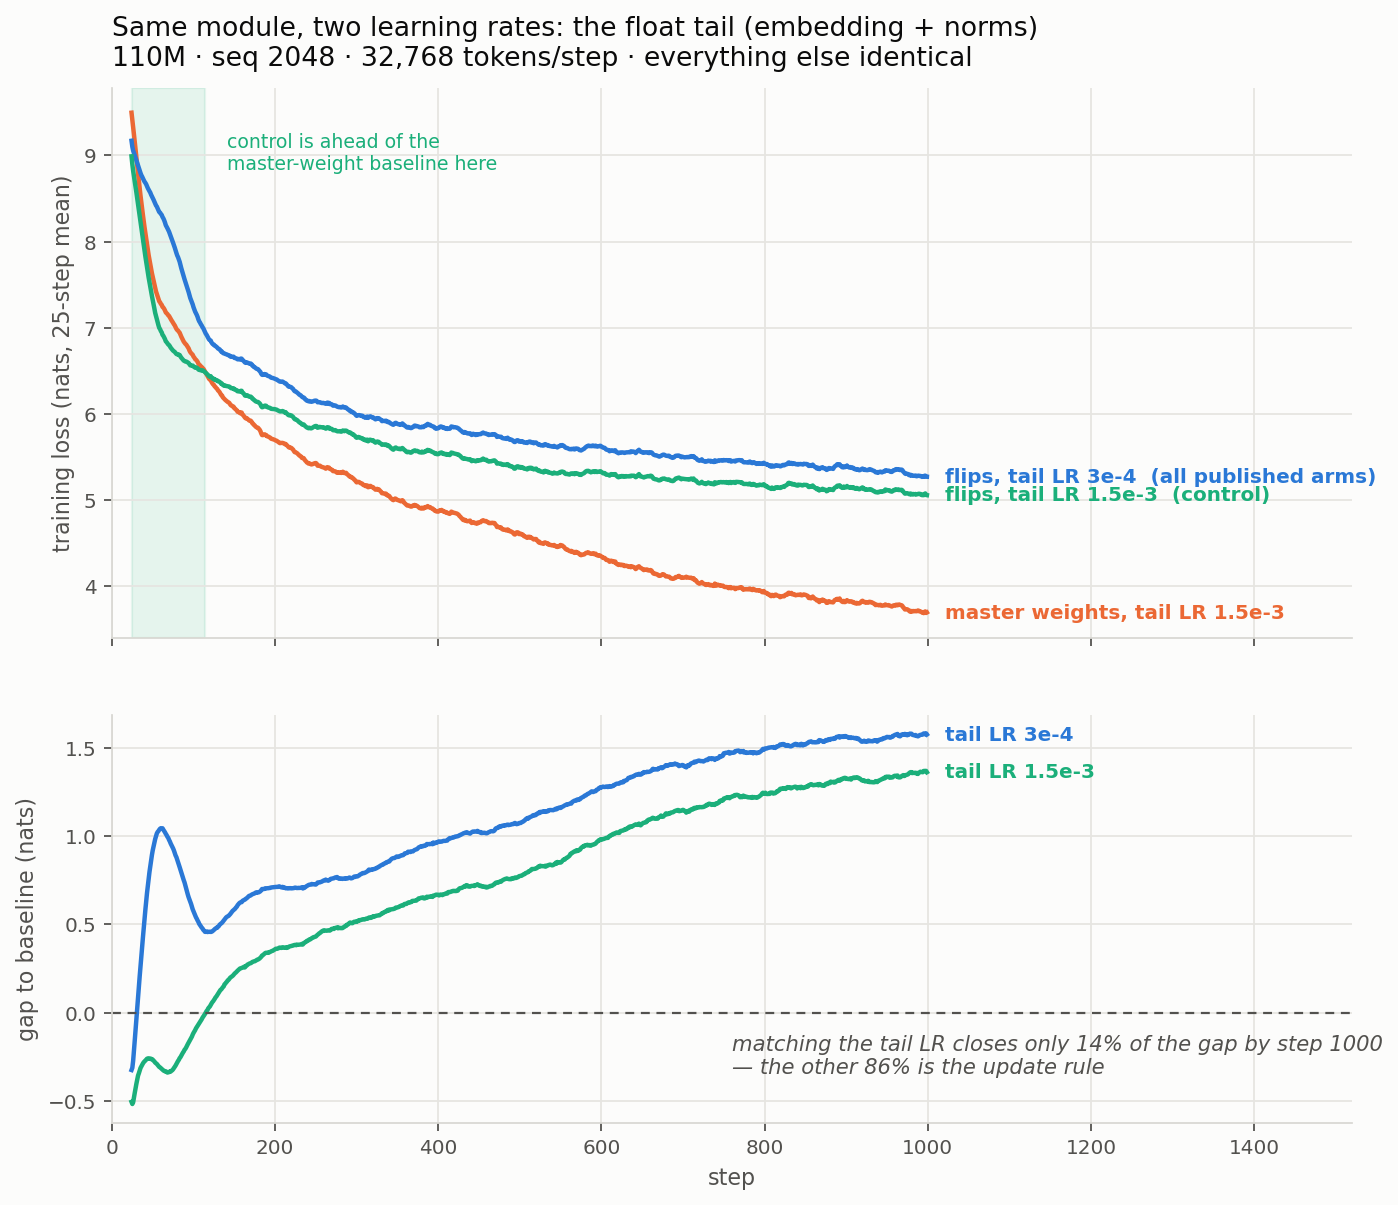
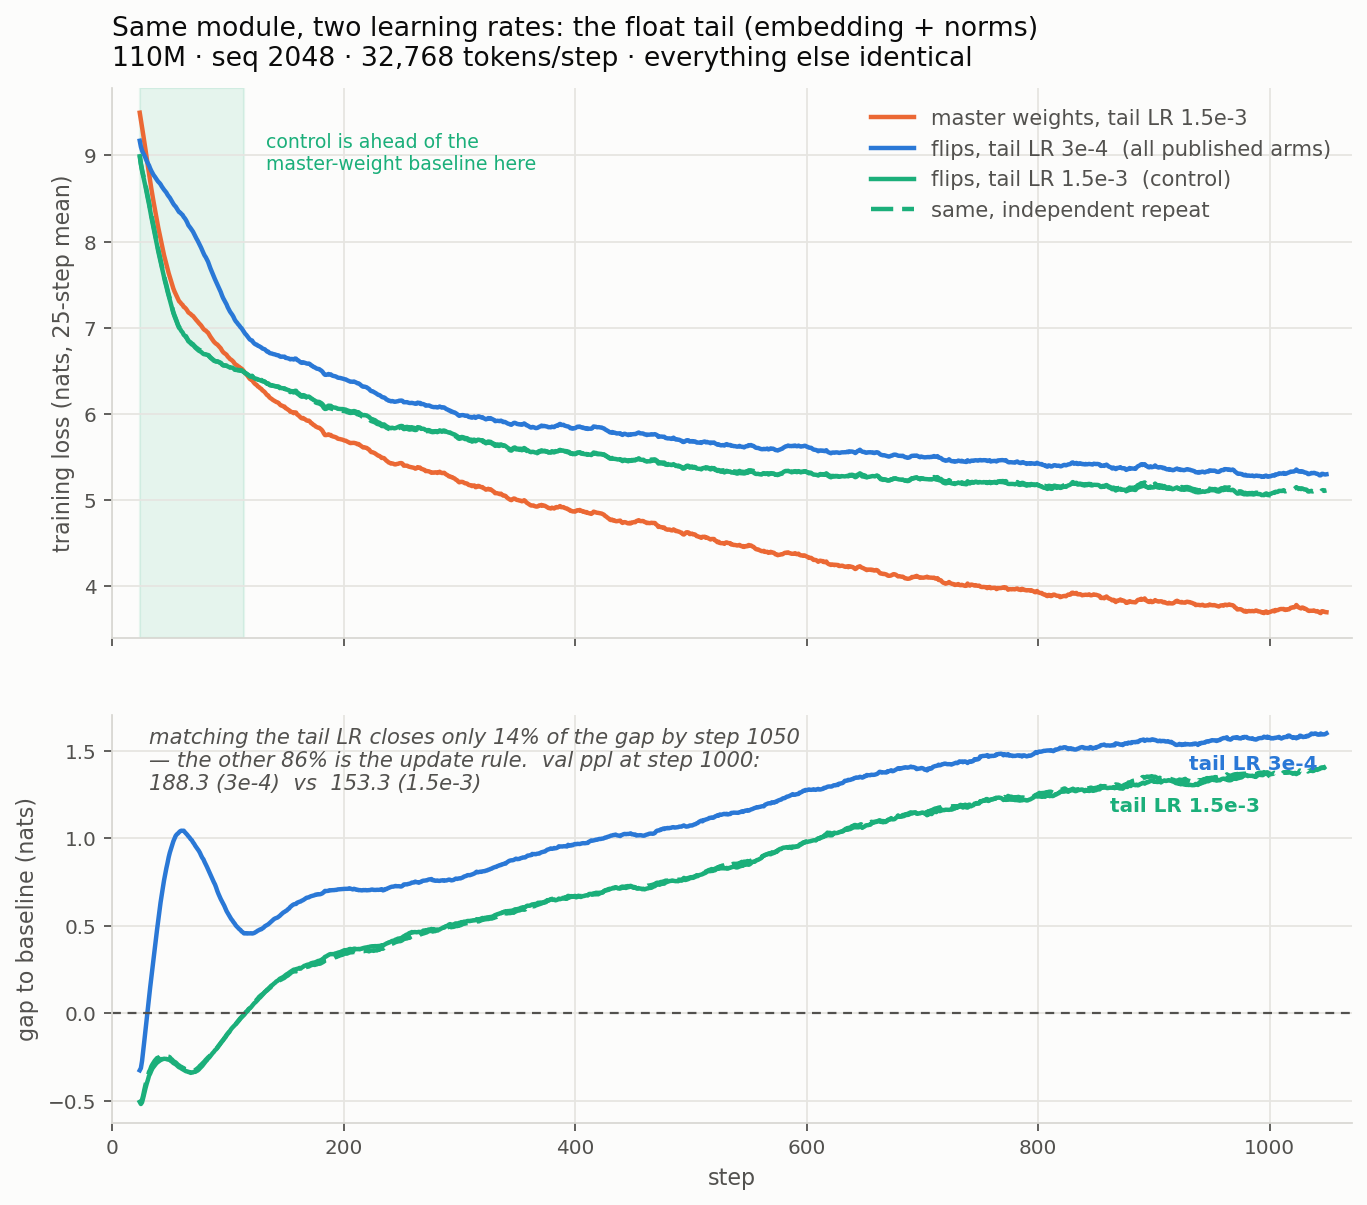
Show both tail-LR control runs on the gap figure
Adds the stopped 300M rerun (armA_cos_lr15, halted at step 1050) as a second
trace of the same config: it lies on top of the first control, so the shape is
reproducible. Switches the top panel to a legend, since the two flip curves end
too close together for end labels.

The figure answers the question it was built for: the flip arms do not start
worse than the master-weight baseline, they start equal and are briefly ahead
(steps ~25-120); the gap accumulates afterwards. Matching the tail LR lowers the
flip curve by ~0.2 nats without changing its slope.

Claude-Session: https://claude.ai/code/session_01NNrNGWT4C4r8ezmDek9sjf

diff --git a/plot_lr_control.py b/plot_lr_control.py
@@ -13,7 +13,7 @@ BASE, FLIP, CTL = "#eb6834", "#2a78d6", "#1baf7a"
 
 ap = argparse.ArgumentParser()
 ap.add_argument("--out", default="docs/lr_control.png")
-ap.add_argument("--steps", type=int, default=1000)
+ap.add_argument("--steps", type=int, default=1050)
 args = ap.parse_args()
 
 
@@ -27,9 +27,10 @@ def loss_curve(run, upto, win=25):
     return s[win - 1:], sm
 
 
-series = [("p2_baseline", "master weights, tail LR 1.5e-3", BASE),
-          ("armA_cosine", "flips, tail LR 3e-4  (all published arms)", FLIP),
-          ("lr_ctl",      "flips, tail LR 1.5e-3  (control)", CTL)]
+series = [("p2_baseline",     "master weights, tail LR 1.5e-3", BASE, "-"),
+          ("armA_cosine",     "flips, tail LR 3e-4  (all published arms)", FLIP, "-"),
+          ("lr_ctl",          "flips, tail LR 1.5e-3  (control)", CTL, "-"),
+          ("armA_cos_lr15",   "same, independent repeat", CTL, (0, (5, 2)))]
 
 fig, axes = plt.subplots(2, 1, figsize=(10, 8.4), sharex=True,
                          gridspec_kw=dict(hspace=0.16, height_ratios=[1.35, 1]))
@@ -47,13 +48,14 @@ def style(ax, ylabel):
 
 ax = axes[0]; style(ax, "training loss (nats, 25-step mean)")
 curves = {}
-for run, label, col in series:
+for run, label, col, ls in series:
     s, v = loss_curve(run, args.steps)
     curves[run] = (s, v)
-    ax.plot(s, v, color=col, linewidth=2)
-    ax.annotate(label, (s[-1], v[-1]), xytext=(8, 0), textcoords="offset points",
-                va="center", fontsize=9, color=col, fontweight="bold")
-ax.set_xlim(0, args.steps * 1.52)
+    ax.plot(s, v, color=col, linewidth=2, linestyle=ls)
+    ax.plot([], [], color=col, linewidth=2, linestyle=ls, label=label)
+ax.set_xlim(0, args.steps * 1.02)
+ax.legend(frameon=False, fontsize=9.5, labelcolor=INK2, loc="upper right",
+          borderaxespad=0.6)
 ax.set_title("Same module, two learning rates: the float tail (embedding + norms)\n"
              "110M · seq 2048 · 32,768 tokens/step · everything else identical",
              color=INK, fontsize=12, loc="left", pad=10)
@@ -70,17 +72,23 @@ if len(ahead):
 
 ax = axes[1]; style(ax, "gap to baseline (nats)")
 sf, vf = curves["armA_cosine"]
-for run, label, col in [("armA_cosine", "tail LR 3e-4", FLIP), ("lr_ctl", "tail LR 1.5e-3", CTL)]:
+for run, label, col, ls in [("armA_cosine", "tail LR 3e-4", FLIP, "-"),
+                            ("lr_ctl", "tail LR 1.5e-3", CTL, "-"),
+                            ("armA_cos_lr15", "", CTL, (0, (5, 2)))]:
     s, v = curves[run]
-    ax.plot(s, v - np.interp(s, sb, vb), color=col, linewidth=2)
-    ax.annotate(label, (s[-1], (v - np.interp(s, sb, vb))[-1]), xytext=(8, 0),
-                textcoords="offset points", va="center", fontsize=9, color=col,
-                fontweight="bold")
+    ax.plot(s, v - np.interp(s, sb, vb), color=col, linewidth=2, linestyle=ls)
+    if not label:
+        continue
+    ax.annotate(label, (s[-1], (v - np.interp(s, sb, vb))[-1]), xytext=(-4, -14),
+                textcoords="offset points", va="center", ha="right", fontsize=9,
+                color=col, fontweight="bold")
 ax.axhline(0, color=INK2, linewidth=1, linestyle=(0, (4, 3)))
 closed = 1 - (vc[-1] - vb_i[-1]) / (np.interp(sc[-1], sf, vf) - vb_i[-1])
 ax.annotate(f"matching the tail LR closes only {closed*100:.0f}% of the gap by step {args.steps}\n"
-            f"— the other {100-closed*100:.0f}% is the update rule",
-            (0.5, 0.12), xycoords="axes fraction", fontsize=9.5, color=INK2, style="italic")
+            f"— the other {100-closed*100:.0f}% is the update rule.  val ppl at step 1000:\n"
+            f"188.3 (3e-4)  vs  153.3 (1.5e-3)",
+            (0.03, 0.97), xycoords="axes fraction", fontsize=9.5, color=INK2,
+            style="italic", ha="left", va="top")
 ax.set_xlabel("step", color=INK2, fontsize=10)
 
 fig.savefig(args.out, dpi=160, bbox_inches="tight", facecolor=SURFACE)
